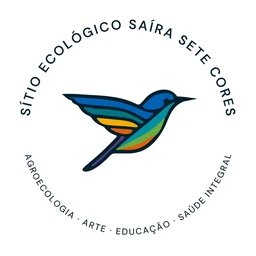
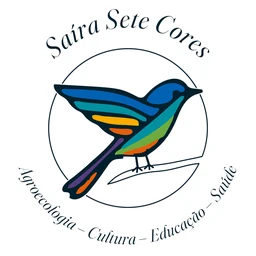
style(marca): selo WebP refeito a partir do selo v4, proporção do pássaro novo na barra e kit de marca no PROJECT_CONTEXT
Claude-Session: https://claude.ai/code/session_01X4S2BdZyoFGqf3QAtRB9k9

diff --git a/src/components/Navbar.jsx b/src/components/Navbar.jsx
@@ -70,8 +70,8 @@ export default function Navbar() {
             <img
               src={logoSrc}
               alt="Logo Sítio Saíra Sete Cores"
-              width="1200"
-              height="733"
+              width="900"
+              height="729"
               className="h-9 sm:h-10 w-auto transition-transform duration-300 group-hover:-translate-y-0.5"
             />
           </a>

diff --git a/PROJECT_CONTEXT.md b/PROJECT_CONTEXT.md
@@ -28,7 +28,7 @@ O Sítio Saíra Sete Cores (localizado na Cabeceira do Sana, Macaé - RJ) possui
 - `NavigationContext.jsx`: Cérebro do estado dos cards, da trilha (`breadcrumbs`: `[idDoCard, { id, label }, …]`) e dos links diretos (`#reservar` etc.).
 - `Channels.jsx`: Canais de captação (o site como link da bio do Instagram), **na barra do topo, no celular e no computador**. O site é um auxiliar de divulgação: **Airbnb e Instagram são os canais principais** (Airbnb em Laranja fogo, Instagram em Roxo ipê) e o **WhatsApp é o contato direto** (Verde mata). Botões redondos e cheios com os ícones das marcas (Simple Icons, CC0): 40 px no celular, 44 px no computador, onde o Airbnb ganha o nome escrito para ter mais destaque. Ordem e nomes em `sairaData.channels`; cores em `CHANNEL_COLORS` (`stripeColor.js`). O Airbnb aparece sozinho quando `contact.airbnbUrl` for preenchido.
 - `Navbar.jsx`: Barra do topo. **Logo = só o pássaro em traço, sem letras** (o nome por extenso fica só no título do hero). À direita, os canais. No computador (lg+): links curtos dos cards (`short` em `sairaData.cards`), **todos em branco, sem destaque**, e o botão de tema. No celular/tablet: canais + menu; **o botão de tema fica dentro do menu**. **Com o menu do celular aberto, a barra fica sólida, na mesma cor do menu** (Noite no tema escuro, Areia no claro); ao fechar, volta a ser transparente sobre a foto.
-- `Footer.jsx`: Selo, nome do sítio e a frase "Agroecologia · Arte · Educação · Saúde Integral" **na mesma cor do nome**; lista "Explorar" (mesmos nomes de `sairaData.cards`) e WhatsApp.
+- `Footer.jsx`: Selo, nome do sítio e a frase "Agroecologia · Cultura · Educação · Saúde" (a mesma do selo v4) **na mesma cor do nome**; lista "Explorar" (mesmos nomes de `sairaData.cards`) e WhatsApp.
 
 ### 3.3 Componentes de Conteúdo (`src/components/content/`)
 São os componentes renderizados internamente pelos modais:
@@ -77,8 +77,9 @@ Cada card tem um endereço próprio, para usar em stories, posts e respostas no 
 - Textos: **DM Sans** (`font-sans`).
 
 ### Logo (arquivos em `public/brand/`)
+Versão v4 (26/11/2026): pássaro pousado no galho. Os arquivos oficiais completos (todas as versões do selo, perfil e destaques do Instagram, modelos de post) ficam em `brand-kit/` — ver `brand-kit/README.md`. Eles **não** fazem parte do site; o site usa só `public/brand/`.
 - `passaro-traco-areia.svg` / `passaro-traco-noite.svg`: pássaro em traço, **a logo da barra do topo** (Areia sobre a foto e no tema escuro; Noite na barra clara). Sem letras: o nome fica no título do hero. (Em nov/2026 testamos o selo na barra e voltamos para o pássaro, que ficou melhor.)
-- `selo-escuro.webp` / `selo-claro.webp` (256 px, ~10–13 KB): selo circular "Sítio Ecológico Saíra Sete Cores", usado no rodapé conforme o tema. Os originais em alta (`.png`, 720 px) ficam guardados para impressão/arte.
+- `selo-escuro.webp` / `selo-claro.webp` (256 px, ~13–15 KB): selo circular, usado no rodapé conforme o tema. São gerados a partir de `selo-escuro.png` / `selo-claro.png` (720 px, ~170–200 KB): **se o selo mudar, gere os `.webp` de novo** (Python/Pillow: redimensionar para 256×256 e salvar em WebP qualidade 88).
 - `passaro.svg` (colorido, contorno Noite) e `passaro-contorno-areia.svg` (contorno Areia, para fundos escuros). `passaro.svg` também é o favicon.
 
 ### Faixa das 7 cores
